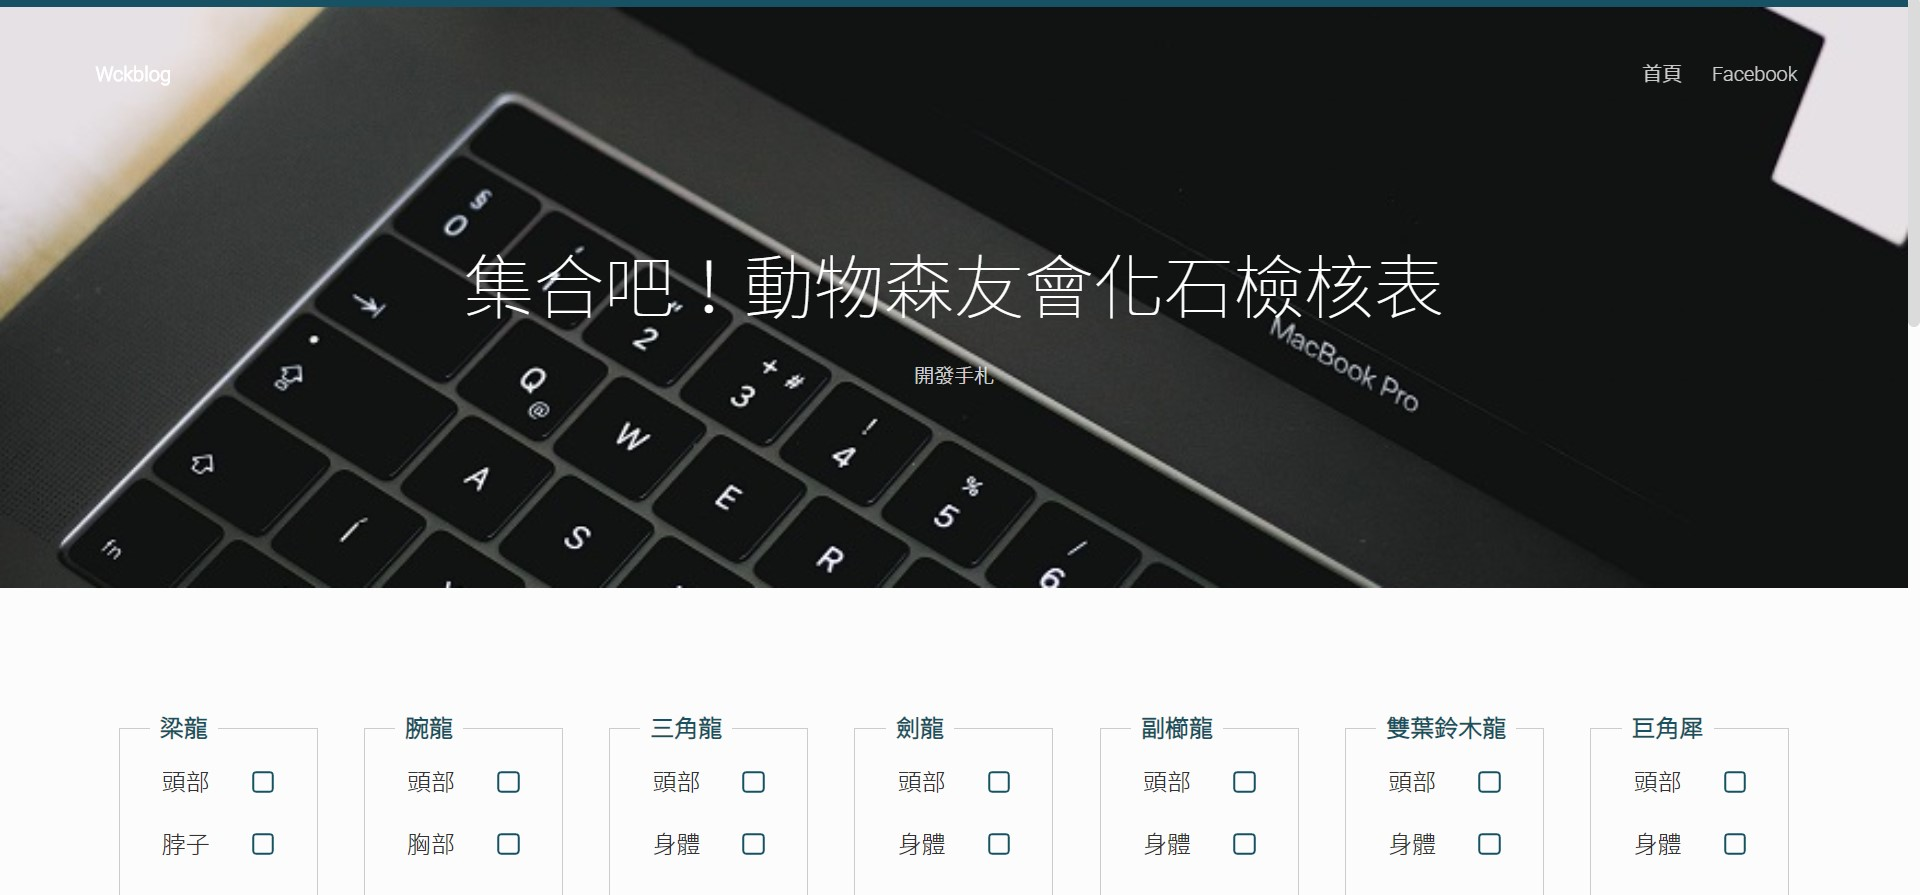
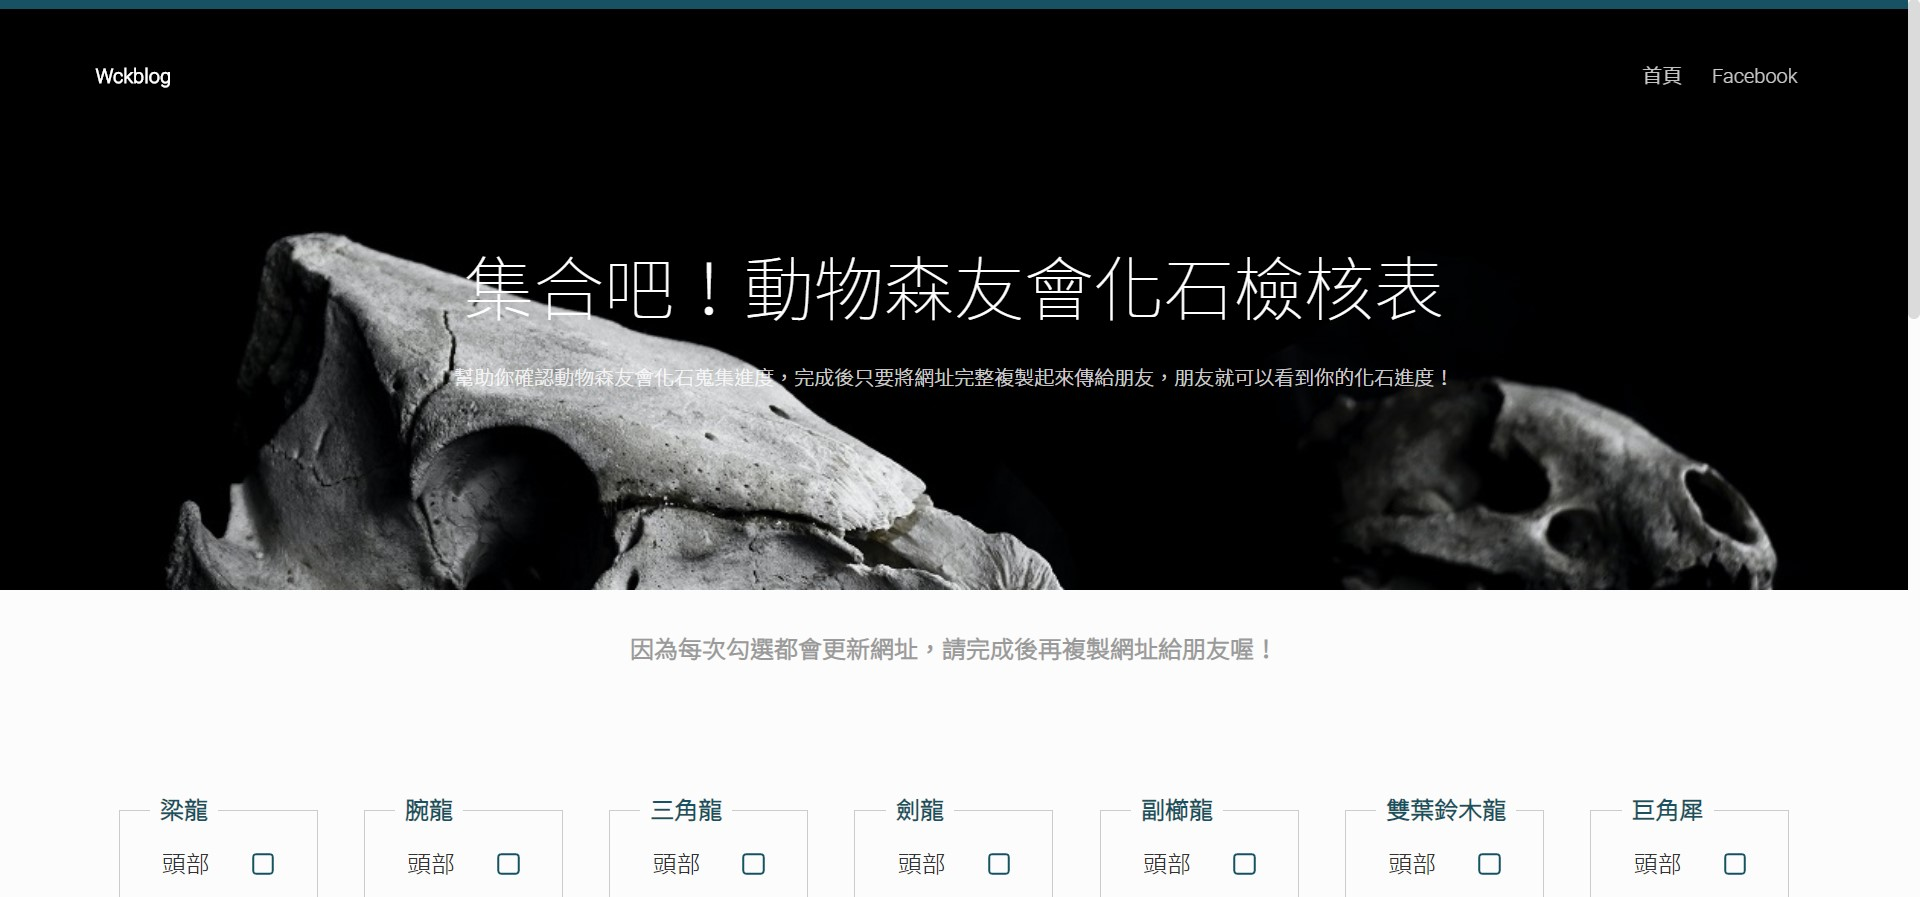
更新

diff --git a/app.css b/app.css
@@ -1,4 +1,7 @@
-.description {
+#header {
+    background-image: url(banner.jpg)
+}
+.description {
     margin: 2rem 5%;
     font-size: 1.2rem;
     font-weight: bold;
